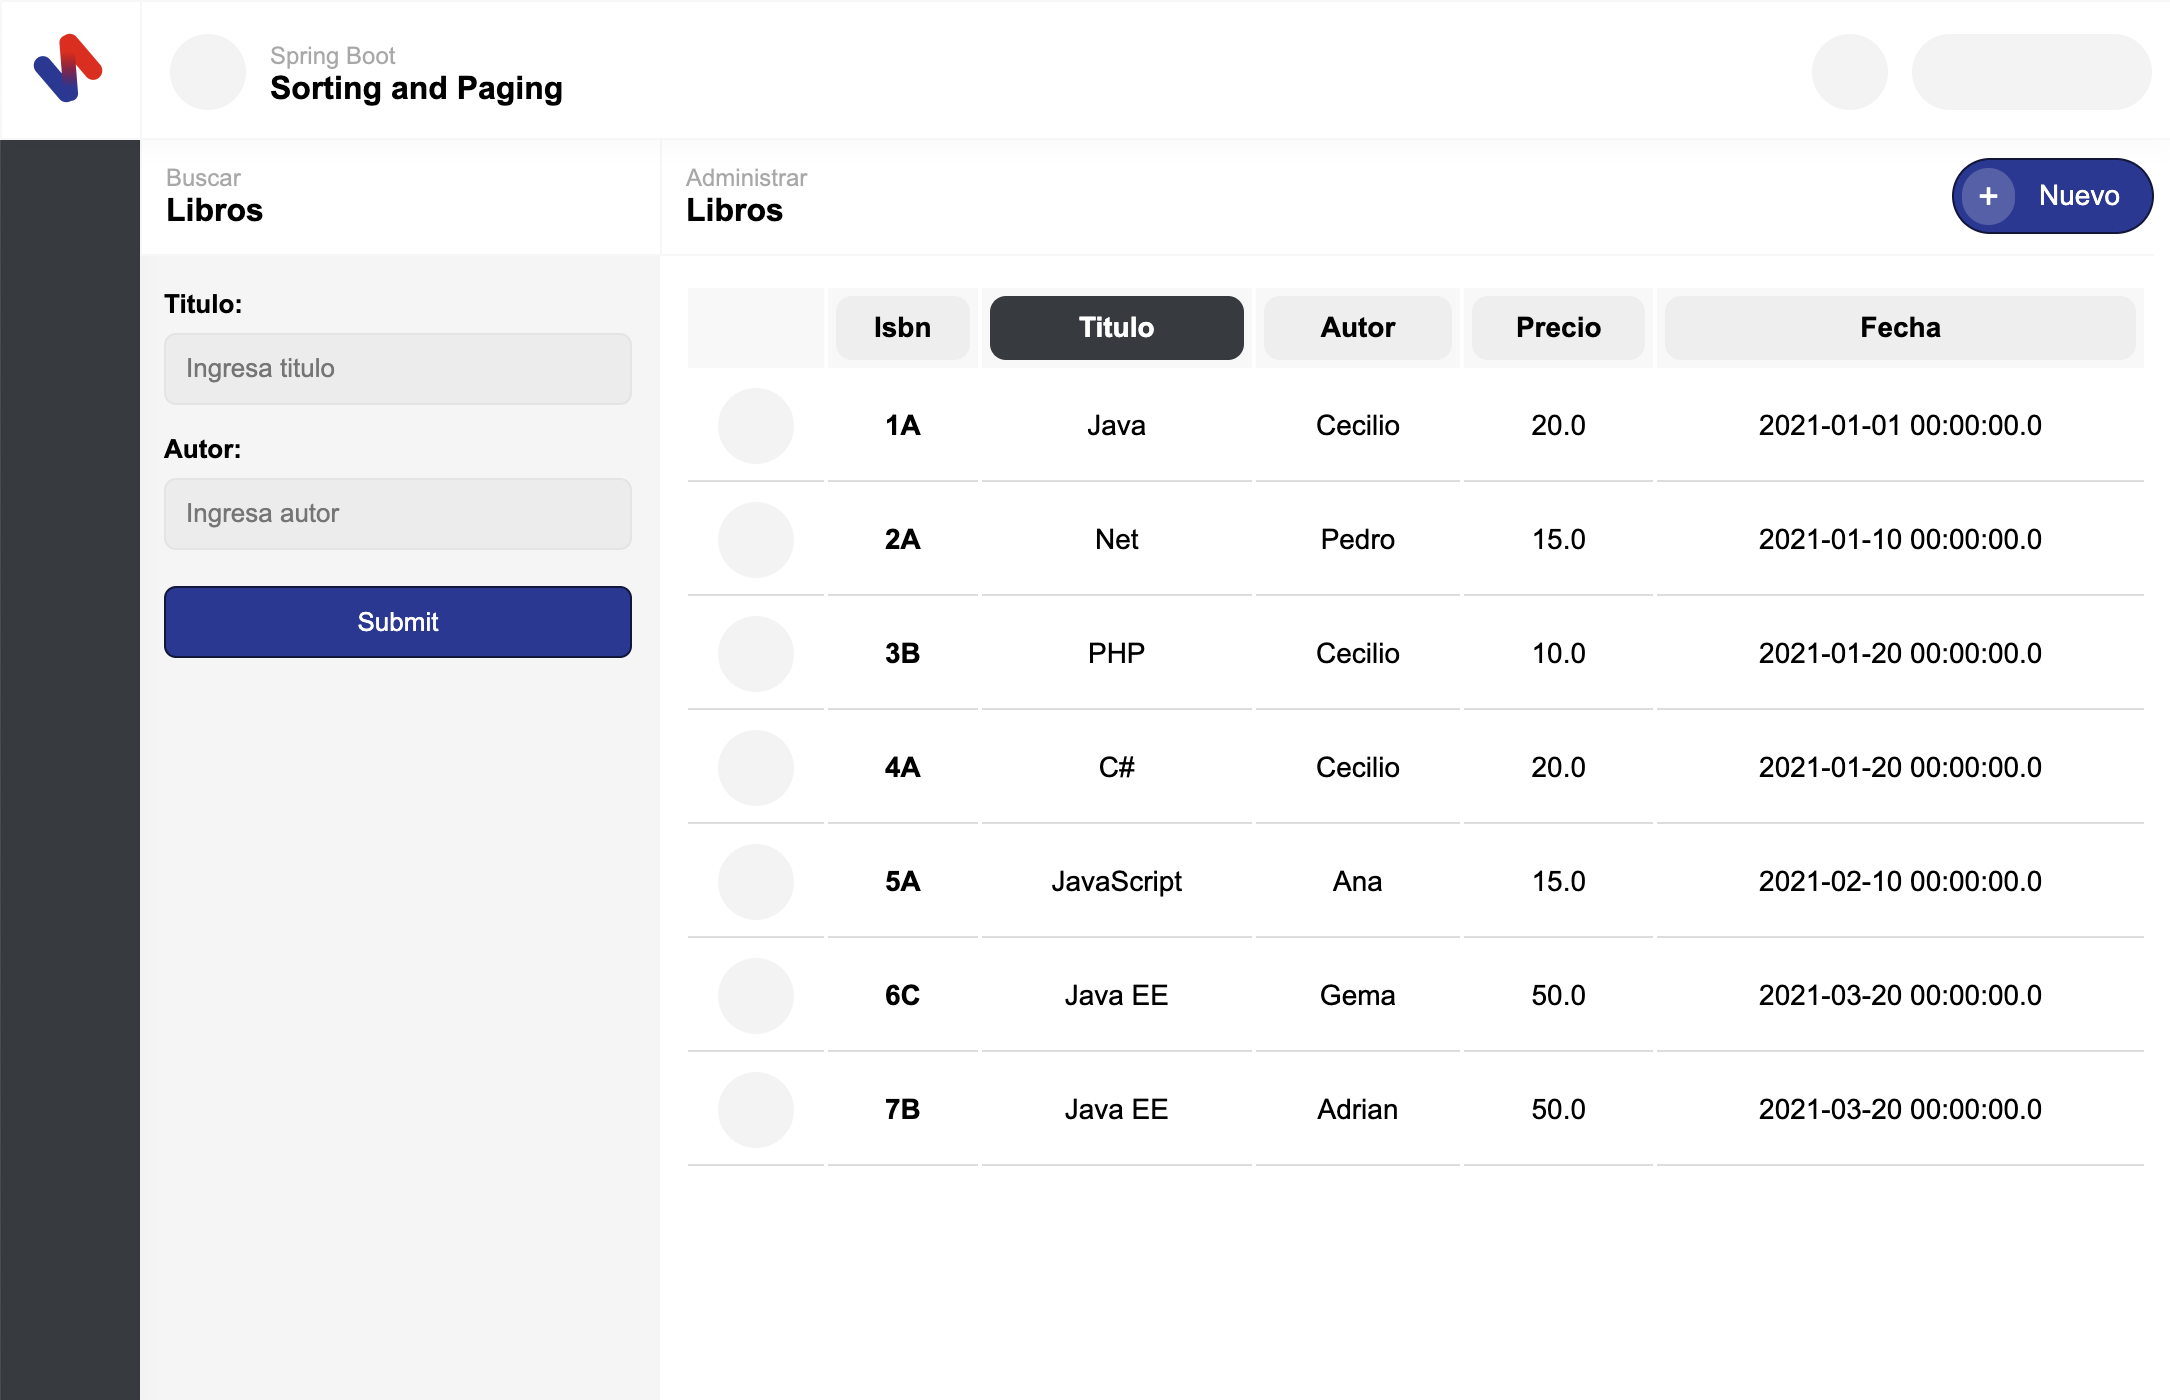
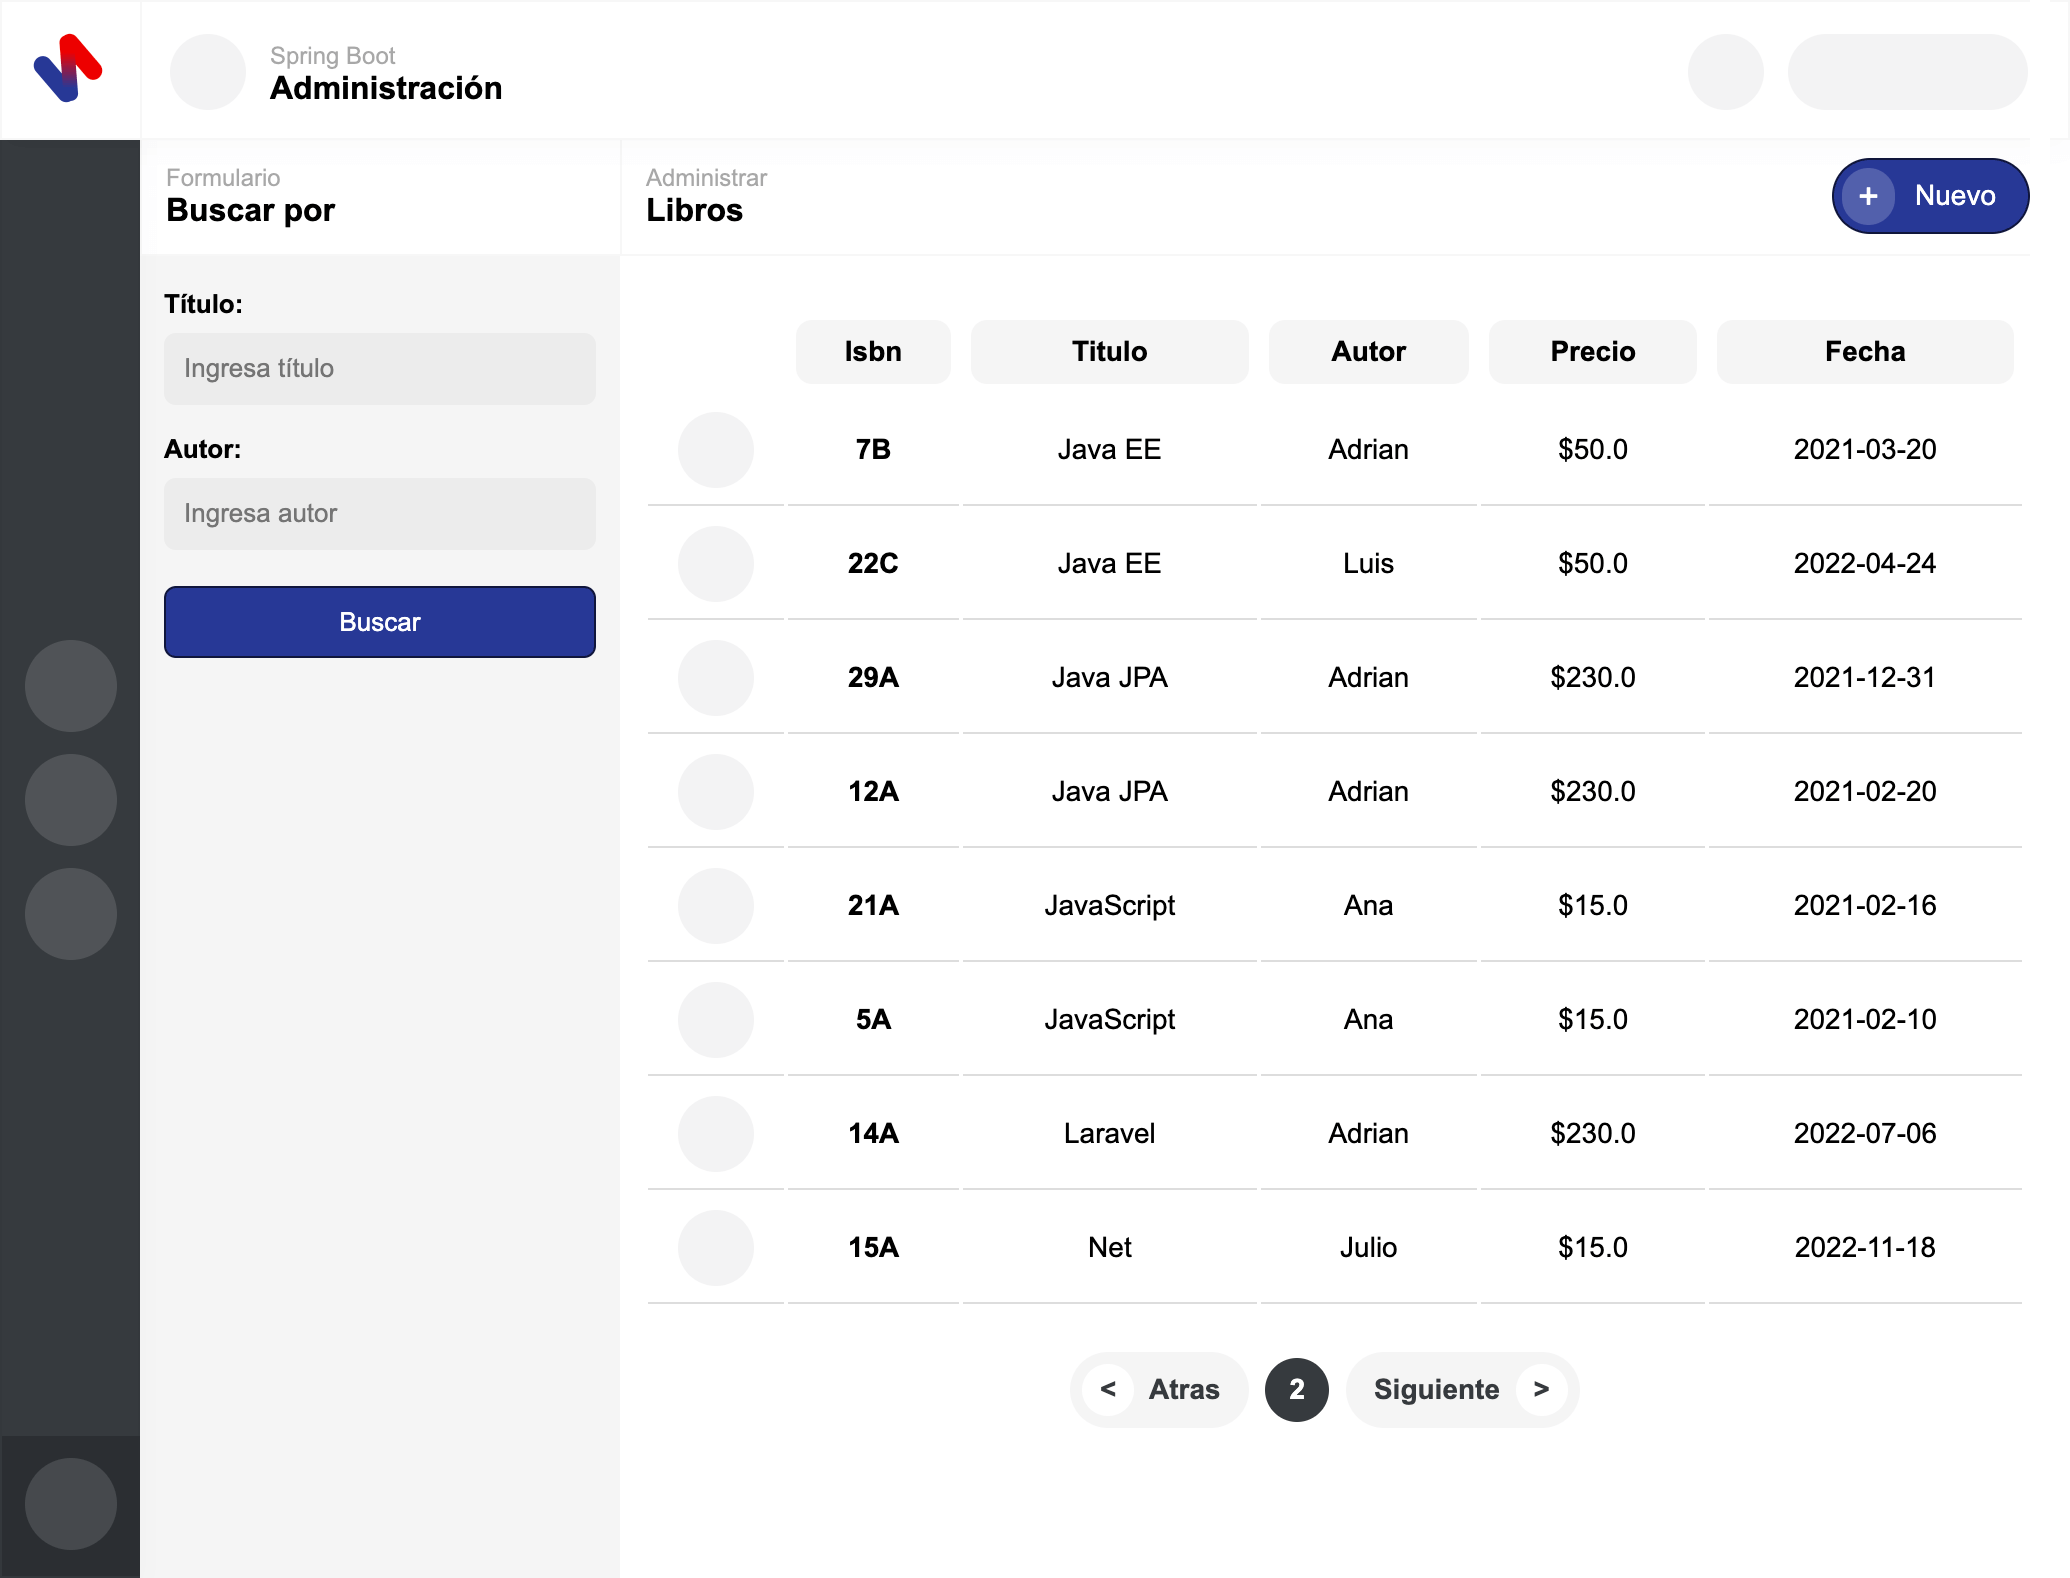
CSS Dark mode

diff --git a/src/main/resources/static/css/libros.css b/src/main/resources/static/css/libros.css
@@ -112,7 +112,7 @@ form {
     width: 90%;
     height: 36px;
     margin: 6px 12px 12px 12px;
-    border: 1px solid rgba(0, 0, 0, 0.03);
+    border: 0px solid rgba(0, 0, 0, 0.03);
     border-radius: 6px;
     background: rgba(80, 84, 87, 0.06);
     padding: 10px;
@@ -221,7 +221,7 @@ label {
 
 .btn-new-book button .btn-new-text {
     float: left;
-    padding: 6px 12px 0px 12px;
+    padding: 6px 12px 0px 10px;
     font-size: 14px;
     color: #FFFFFF;
 }
@@ -356,7 +356,7 @@ tr:hover {
     width: auto;
     height: auto;
     background: rgba(0, 0, 0, 0.04);
-    border: 1px solid rgba(0, 0, 0, 0.04);
+    border: 0px solid rgba(0, 0, 0, 0.04);
     border-radius: 100px;
     color: #363A3E;
     font-weight: bold;
@@ -385,6 +385,14 @@ tr:hover {
     padding: 6px 6px 6px 14px;
 }
 
+#btn-paging-back span {
+    margin-right: 4px;
+}
+
+#btn-paging-next span {
+    margin-left: 4px;
+}
+
 #btn-paging-back span, #btn-paging-next span {
     display: inline-block;
     background-color: #FFFFFF;
@@ -398,6 +406,19 @@ tr:hover {
     width: 100%;
     height: auto;
     overflow: auto;
+}
+
+.msj-no-data {
+    font-size: 13px;
+    padding: 12px 18px;
+    margin: 0 auto;
+    text-align: center;
+    background: rgba(255, 0, 0, 0.3);
+    color: #CC0000;
+    font-weight: bold;
+    width: auto;
+    height: auto;
+    display: inline-block;
 }
 
 @media (max-width: 1024px) {
@@ -567,4 +588,138 @@ tr:hover {
         margin-right: 10px;
     }
 
+}
+
+@media (max-width: 320px) {
+
+    body {
+        background: #111111;
+    }
+
+    .header {
+        background: #111111;
+    }
+
+    .logo-container {
+        background-color: transparent;
+        border: 1px solid #000000;
+    }
+
+    .header-title .main-title h5 {
+        color: #FFFFFF;
+    }
+
+    .header-title-icon-3 {
+        background: rgba(255, 255, 255, 0.05);
+    }
+
+    .main-filter .main-options .main-title h5 {
+        color: rgba(255, 255, 255, 0.3);
+    }
+
+    .main-filter {
+        background: #000000;
+    }
+
+    .main-filter #input-titulo {
+        background: rgba(255, 255, 255, 0.1);
+        border: 0px solid rgba(0, 0, 0, 0.03);
+        color: rgba(255, 255, 255, 0.5);
+    }
+    .main-filter #input-autor {
+        background: rgba(255, 255, 255, 0.1);
+        border: 0px solid rgba(0, 0, 0, 0.03);
+        color: rgba(255, 255, 255, 0.5);
+    }
+    .main-filter .btn-submit {
+        background: #283897;
+        border: 0px solid rgba(0, 0, 0, 0.03);
+        color: #FFFFFF;
+    }
+
+    .main-body {
+        background: linear-gradient(180deg, #1A1A1A 0%, #020000 100%);
+    }
+
+    .main-body .main-options {
+        border-bottom: 1px solid #000000;
+    }
+
+    .main-body .main-options .main-title h6 {
+        color: rgba(255, 255, 255, 0.34);
+    }
+
+    .main-body .main-options .main-title h5 {
+        color: #FFFFFF;
+    }
+
+    .btn-new-book button {
+        background: #000000;
+    }
+
+    .btn-new-book button .btn-new-icon {
+        background: #283897;
+        color: #FFFFFF;
+    }
+
+    th .orden {
+        color: #FFFFFF;
+        text-decoration: none;
+        background: rgba(255, 255, 255, 0.1);
+    }
+
+    th .orden:hover {
+        background: rgba(255, 255, 255, 0.05);
+    }
+
+
+    th {
+        border: 0px solid #1E1D1D;
+        border-bottom: 0px solid #1E1D1D;
+    }
+
+    th:hover {
+        background: rgba(255, 255, 255, 0.2);
+    }
+
+    td {
+        padding: 8px 15px;
+        text-align: center;
+        border: 0px solid #ddd;
+        border-bottom: 1px solid #1E1D1D;
+        font-size: 14px;
+
+    }
+
+    tr {
+        border: 0px solid #1E1D1D;
+    }
+
+    tr:hover {
+        background: rgba(255, 255, 255, 0.05);
+    }
+
+    .book-icon {
+        background: rgba(255, 255, 255, 0.1);
+    }
+
+    table, th, tr, td {
+        color: #FFFFFF;
+        border-left: solid 0px;
+        border-right: solid 0px;
+    }
+
+    #btn-paging-back, #btn-paging-next  {
+        background: #FFFFFF;
+        color: #000000;
+    }
+
+    #btn-paging-back span, #btn-paging-next span {
+        color: #FFFFFF;
+        background: #000000;
+    }
+
+    .btn-paging-number {
+        background: rgba(255, 255, 255, 0.1);
+    }
 }

diff --git a/src/main/resources/templates/libros.html b/src/main/resources/templates/libros.html
@@ -101,6 +101,9 @@
             <td><span th:text="${#strings.replace(libro.fecha, ' 00:00:00.0', '')}" th:remove="tag"></span></td>
         </tr>
     </table>
+        <div th:if="${#lists.size(libros) == 0}">
+                <div class="msj-no-data">No hay información</div>
+        </div>
     </div>
 
     <div class="paging-container">

diff --git a/README.md b/README.md
@@ -2,9 +2,20 @@
 Aplicación Web basada en Spring Boot para el manejo del catálogo de Libros
 
 **Características:**
-* Buscar
-* Ordenar
-* Páginado
+* Diseño web
+  * Responsive Design
+  * Dark mode
+* Buscar Libro por:
+  * Título
+  * Autor
+* Ordenar Libro por:
+  * Isbn
+  * Título
+  * Autor
+  * Precio
+  * Fecha
+* Páginado de Libros
+* CRUD Rest Libros
 * y más
 
 Actualmente este proyecto no está terminado y posiblemente presente anomalias en su código fuente, por ende, se recomienda no usarlo en un ambiente productivo.
@@ -28,16 +39,15 @@ Actualmente este proyecto no está terminado y posiblemente presente anomalias e
 
 * Entrar al directorio del proyecto desde Consola/Terminal
 
-    - Instalar dependencias y empaquetar: `mvn clean install`
-    - Ejecutar
-
-
-
+    - Instalar dependencias: `mvn clean`
+    - Instalar empaquetar: `mvn install`
+    - Desplegar
+  
 
 
 ## Imagenes del proyecto
-![Pantalla principal](https://github.com/adrianortiz/spring-data-sorting-paging/blob/main/src/main/resources/screenshot-01.png)
-![Pantalla principa](https://github.com/adrianortiz/spring-data-sorting-paging/blob/main/src/main/resources/screenshot-02.png)
+![Pantalla principal](https://github.com/adrianortiz/spring-data-sorting-paging/blob/main/src/main/resources/static/images/screenshot-01.png)
+![Pantalla principa](https://github.com/adrianortiz/spring-data-sorting-paging/blob/main/src/main/resources/static/images/screenshot-02.png)
 
 
 ## Spring Framework
